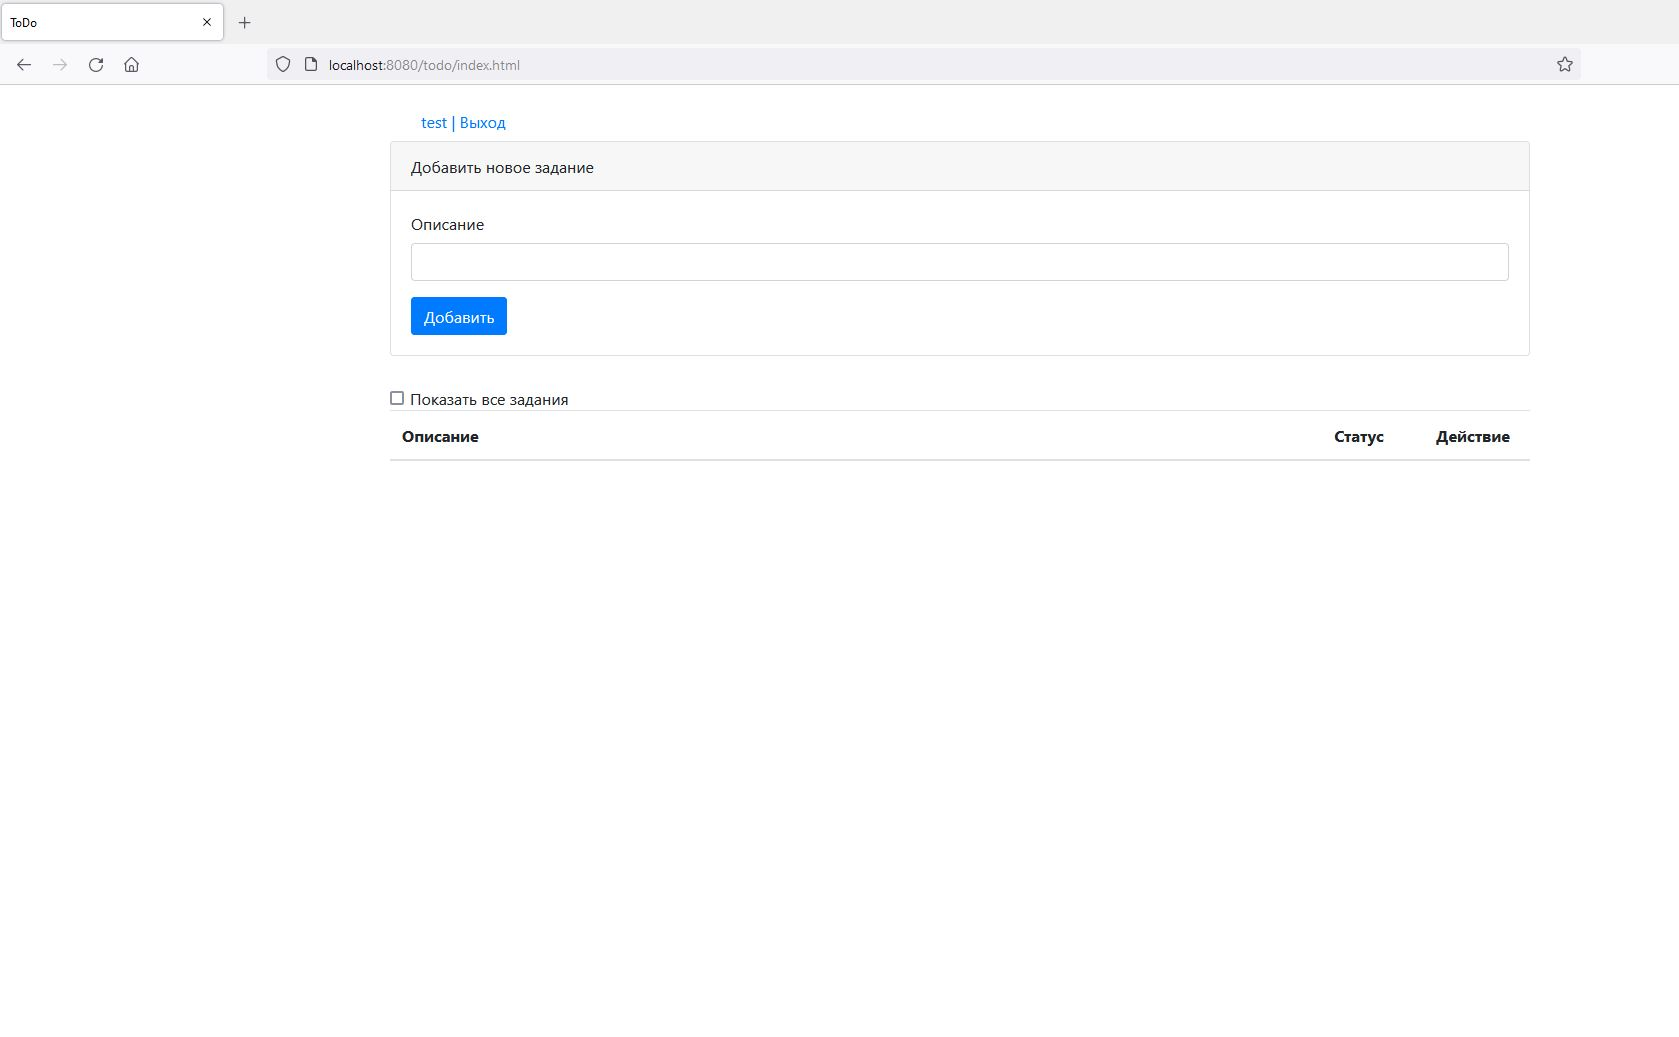
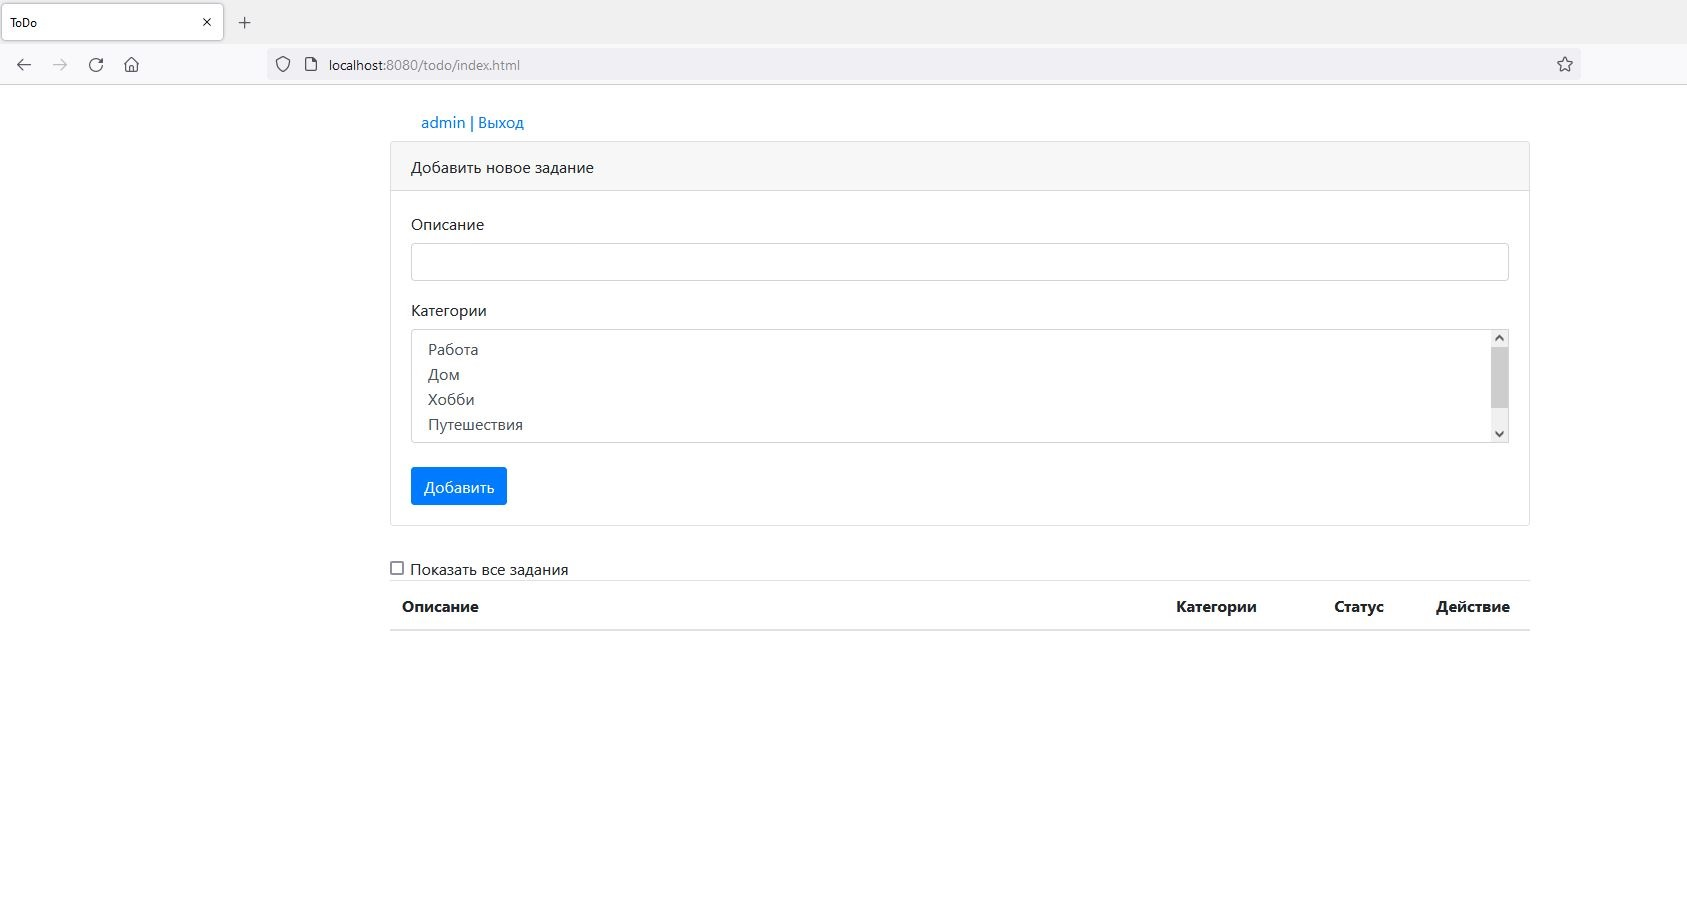
4. Категории в TODO List [#331991]

diff --git a/src/main/webapp/index.js b/src/main/webapp/index.js
@@ -28,6 +28,11 @@ function getItems() {
             let done = item['isDone'];
             let status;
             let button;
+            let categories = item['categories'];
+            let itemCat = "";
+            categories.forEach(function(cat) {
+                itemCat += cat.name + '<br/>';
+            });
             if (done === true) {
                 button = '';
                 status = '<i class="fa fa-check-circle-o fa-2x" style="color:green"></i>'
@@ -36,6 +41,7 @@ function getItems() {
                 status = '<i class="fa fa-circle-o fa-2x" style="color:red"></i>'
             }
             $('#table tbody').append('<tr><td>' + desc + '</td>'
+                + '<td style="text-align: center">' + itemCat + '</td>'
                 + '<td style="text-align: center">' + status + '</td>'
                 + '<td>' + button + '</td></tr>');
         }
@@ -54,10 +60,16 @@ function addItem() {
         url: 'http://localhost:8080/todo/index.do',
         data: {
             description : $('#desc').val(),
-            username : username
+            username : username,
+            categories : $('#cIds').val()
+        },
+        dataType: 'text'
+    }).done(function (data) {
+        if (data === '400') {
+            alert('Выберите категорию!');
+        } else {
+            getItems();
         }
-    }).done(function () {
-        getItems();
     }).fail(function (err) {
         console.log(err);
     });
@@ -77,3 +89,21 @@ function closeTask(id) {
     });
 }
 
+function getCategories() {
+    $.ajax({
+        type: 'GET',
+        url: 'http://localhost:8080/todo/category.do',
+        dataType: 'json'
+    }).done(function (data) {
+        let select = document.getElementById('cIds');
+        for (let i = 0; i < data.length; i++) {
+            let cat = data[i];
+            $('#cIds').append($('<option>', {
+                value: cat.id,
+                text: cat.name,
+            }));
+        }
+    }).fail(function (err) {
+        console.log(err);
+    });
+}

diff --git a/src/main/webapp/index.html b/src/main/webapp/index.html
@@ -29,6 +29,7 @@
 <script>
     $(document).ready(function () {
         getItems();
+        getCategories();
     });
 </script>
 
@@ -50,6 +51,12 @@
                         <input type="text" class="form-control" name="desc" id="desc"
                                title="Поле Описание не заполнено">
                     </div>
+                    <div class="form-select">
+                        <label for="cIds">Категории</label>
+                        <select class="form-control" name="cIds" id="cIds" multiple>
+                        </select>
+                    </div>
+                    <br>
                     <button type="button" class="btn btn-primary" onclick="addItem()">Добавить</button>
                 </form>
             </div>
@@ -61,7 +68,8 @@
         <table class="table" id="table">
             <thead>
             <tr>
-                <th scope="col" style="width: 80%">Описание</th>
+                <th scope="col" style="width: 65%">Описание</th>
+                <th scope="col" style="width: 15%; text-align: center">Категории</th>
                 <th scope="col" style="width: 10%; text-align: center">Статус</th>
                 <th scope="col" style="width: 10%; text-align: center">Действие</th>
             </tr>

diff --git a/src/main/java/ru/job4j/store/HbnStore.java b/src/main/java/ru/job4j/store/HbnStore.java
@@ -8,6 +8,7 @@ import org.hibernate.boot.registry.StandardServiceRegistry;
 import org.hibernate.boot.registry.StandardServiceRegistryBuilder;
 import org.slf4j.Logger;
 import org.slf4j.LoggerFactory;
+import ru.job4j.model.Category;
 import ru.job4j.model.Item;
 import ru.job4j.model.User;
 
@@ -51,6 +52,18 @@ public class HbnStore implements Store {
     @Override
     public Item add(Item item) {
         return this.tx(session -> {
+            session.save(item);
+            return item;
+        });
+    }
+
+    @Override
+    public Item add(Item item, String[] ids) {
+        return this.tx(session -> {
+            for (var id : ids) {
+                Category category = session.find(Category.class, Integer.parseInt(id));
+                item.addCategory(category);
+            }
             session.save(item);
             return item;
         });
@@ -115,7 +128,9 @@ public class HbnStore implements Store {
 
     @Override
     public List<Item> findAllItemsByUser(User user) {
-        return this.tx(session -> session.createQuery("from ru.job4j.model.Item where user = :user")
+        return this.tx(session -> session.createQuery("select distinct i from ru.job4j.model.Item i "
+                        + "join fetch i.categories "
+                        + "where i.user = :user")
                 .setParameter("user", user)
                 .list());
     }
@@ -123,8 +138,17 @@ public class HbnStore implements Store {
     @Override
     public List<Item> findNotDoneItemsByUser(User user) {
         return this.tx(
-                session -> session.createQuery("from ru.job4j.model.Item where isDone = false AND user = :user")
+                session -> session.createQuery("select distinct i from ru.job4j.model.Item i "
+                                + "join fetch i.categories "
+                                + "where i.isDone = false AND i.user = :user")
                 .setParameter("user", user)
                 .list());
+    }
+
+    @Override
+    public List<Category> findAllCategories() {
+        return this.tx(
+                session -> session.createQuery("from ru.job4j.model.Category").list()
+        );
     }
 }

diff --git a/src/main/java/ru/job4j/model/Category.java b/src/main/java/ru/job4j/model/Category.java
@@ -1,0 +1,61 @@
+package ru.job4j.model;
+
+
+import javax.persistence.*;
+import java.util.Objects;
+
+@Entity
+@Table(name = "category")
+public class Category {
+    @Id
+    @GeneratedValue(strategy = GenerationType.IDENTITY)
+    private  int id;
+    private String name;
+
+    public static Category of(String name) {
+        Category category = new Category();
+        category.name = name;
+        return category;
+    }
+
+    public int getId() {
+        return id;
+    }
+
+    public void setId(int id) {
+        this.id = id;
+    }
+
+    public String getName() {
+        return name;
+    }
+
+    public void setName(String name) {
+        this.name = name;
+    }
+
+    @Override
+    public boolean equals(Object o) {
+        if (this == o) {
+            return true;
+        }
+        if (o == null || getClass() != o.getClass()) {
+            return false;
+        }
+        Category category = (Category) o;
+        return id == category.id && Objects.equals(name, category.name);
+    }
+
+    @Override
+    public int hashCode() {
+        return Objects.hash(id, name);
+    }
+
+    @Override
+    public String toString() {
+        return "Category{"
+                + "id=" + id
+                + ", name='" + name + '\''
+                + '}';
+    }
+}

diff --git a/src/main/java/ru/job4j/servlet/CategoryServlet.java b/src/main/java/ru/job4j/servlet/CategoryServlet.java
@@ -1,0 +1,26 @@
+package ru.job4j.servlet;
+
+import com.google.gson.Gson;
+import com.google.gson.GsonBuilder;
+import ru.job4j.store.HbnStore;
+
+import javax.servlet.ServletException;
+import javax.servlet.http.HttpServlet;
+import javax.servlet.http.HttpServletRequest;
+import javax.servlet.http.HttpServletResponse;
+import java.io.IOException;
+import java.io.OutputStream;
+import java.nio.charset.StandardCharsets;
+
+public class CategoryServlet extends HttpServlet {
+    private static final Gson GSON = new GsonBuilder().create();
+
+    @Override
+    protected void doGet(HttpServletRequest req, HttpServletResponse resp) throws ServletException, IOException {
+        OutputStream out = resp.getOutputStream();
+        String json = GSON.toJson(HbnStore.instOf().findAllCategories());
+        out.write(json.getBytes(StandardCharsets.UTF_8));
+        out.flush();
+        out.close();
+    }
+}

diff --git a/src/main/java/ru/job4j/servlet/IndexServlet.java b/src/main/java/ru/job4j/servlet/IndexServlet.java
@@ -37,7 +37,15 @@ public class IndexServlet extends HttpServlet {
     @Override
     protected void doPost(HttpServletRequest req, HttpServletResponse resp) throws ServletException, IOException {
         String desc = req.getParameter("description");
+        String[] categoriesId = req.getParameterValues("categories[]");
         User user = (User) req.getSession().getAttribute("user");
-        HbnStore.instOf().add(new Item(desc, false, user));
+        if (categoriesId == null) {
+            OutputStream out = resp.getOutputStream();
+            out.write("400".getBytes(StandardCharsets.UTF_8));
+            out.flush();
+            out.close();
+        } else {
+            HbnStore.instOf().add(new Item(desc, false, user), categoriesId);
+        }
     }
 }

diff --git a/src/main/java/ru/job4j/model/Item.java b/src/main/java/ru/job4j/model/Item.java
@@ -2,7 +2,9 @@ package ru.job4j.model;
 
 import javax.persistence.*;
 import java.time.LocalDateTime;
+import java.util.HashSet;
 import java.util.Objects;
+import java.util.Set;
 
 @Entity
 @Table(name = "items")
@@ -16,6 +18,8 @@ public class Item {
     @ManyToOne
     @JoinColumn(name = "user_id")
     private User user;
+    @ManyToMany(cascade = {CascadeType.PERSIST, CascadeType.MERGE})
+    private Set<Category> categories = new HashSet<>();
 
     public Item() {
     }
@@ -46,6 +50,10 @@ public class Item {
         this.description = description;
         this.isDone = isDone;
         this.user = user;
+    }
+
+    public void addCategory(Category category) {
+        this.categories.add(category);
     }
 
     public int getId() {

diff --git a/src/main/java/ru/job4j/store/Store.java b/src/main/java/ru/job4j/store/Store.java
@@ -1,5 +1,6 @@
 package ru.job4j.store;
 
+import ru.job4j.model.Category;
 import ru.job4j.model.Item;
 import ru.job4j.model.User;
 
@@ -7,6 +8,7 @@ import java.util.List;
 
 public interface Store {
     Item add(Item item);
+    Item add(Item item, String[] ids);
     Item replace(int id);
     List<Item> findAllItems();
     List<Item> findNotDoneItems();
@@ -16,4 +18,5 @@ public interface Store {
     User findUserByEmail(String email);
     List<Item> findAllItemsByUser(User user);
     List<Item> findNotDoneItemsByUser(User user);
+    List<Category> findAllCategories();
 }

diff --git a/README.md b/README.md
@@ -16,3 +16,4 @@
 ![ScreenShot](images/5.JPG)
 ![ScreenShot](images/6.JPG)
 ![ScreenShot](images/7.JPG)
+![ScreenShot](images/8.JPG)
